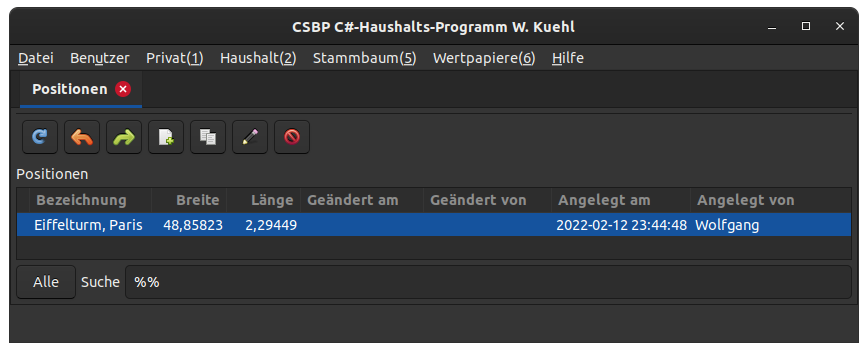
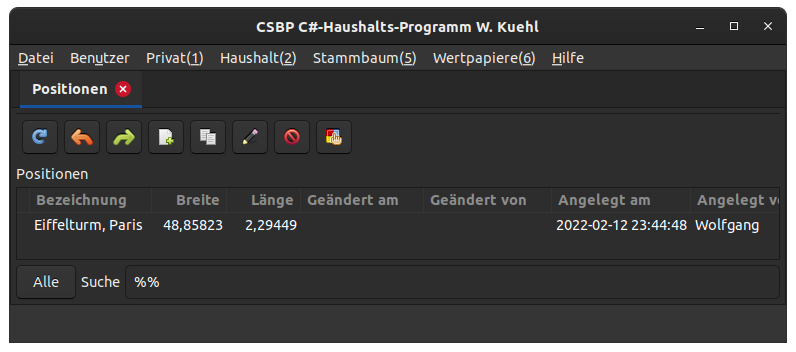
Open OpenStretMap for position in dialog TB200.

diff --git a/CSBP/Forms/TB/TB200Positions.cs b/CSBP/Forms/TB/TB200Positions.cs
@@ -184,6 +184,19 @@ namespace CSBP.Forms.TB
       StartDialog(DialogTypeEnum.Delete);
     }
 
+    /// <summary>Handle Map.</summary>
+    /// <param name="sender">Betroffener Sender.</param>
+    /// <param name="e">Betroffenes Ereignis.</param>
+    protected void OnChartClicked(object sender, EventArgs e)
+    {
+      var uid = GetValue<string>(positions);
+      var p = Get(FactoryService.DiaryService.GetPosition(ServiceDaten, uid));
+      if (p != null)
+      {
+        UiTools.StartFile($"https://www.openstreetmap.org/#map=19/{Functions.ToString(p.Breite, 5, Functions.CultureInfoEn)}/{Functions.ToString(p.Laenge, 5, Functions.CultureInfoEn)}");
+      }
+    }
+
     /// <summary>Behandlung von Positions.</summary>
     /// <param name="sender">Betroffener Sender.</param>
     /// <param name="e">Betroffenes Ereignis.</param>

diff --git a/CSBP/Forms/WP/WP200Stocks.cs b/CSBP/Forms/WP/WP200Stocks.cs
@@ -253,7 +253,7 @@ namespace CSBP.Forms.WP
     /// <param name="e">Betroffenes Ereignis.</param>
     protected void OnFloppyClicked(object sender, EventArgs e)
     {
-      // TODP Floppy
+      // TODO Floppy
     }
 
     /// <summary>Behandlung von Chart.</summary>
